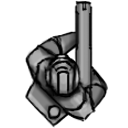
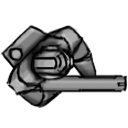
Implemented player graphic Fixed wonky player rotation Fixed invalid weapon index again...

diff --git a/BlackTournament/GameStates/MapState.cs b/BlackTournament/GameStates/MapState.cs
@@ -14,7 +14,7 @@ namespace BlackTournament.GameStates
         private string _MapName;
 
         private View _View;
-        private IEntity _Player;
+        private Graphic _Player;
         private Map _Map;
 
 
@@ -30,13 +30,14 @@ namespace BlackTournament.GameStates
             _View = new View(new FloatRect(0, 0, _Core.DeviceSize.X, _Core.DeviceSize.Y));
 
             // TESTS:
-            _Player = new BlackCoat.Entities.Shapes.Rectangle(_Core)
+            TextureManager.RootFolder = "Assets";
+            _Player = new Graphic(_Core)
             {
-                Size = new SFML.System.Vector2f(20, 40),
-                Origin = new SFML.System.Vector2f(10, 20),
+                Texture = TextureManager.Load("CharacterBase"),
                 Color = Color.Red,
                 View = _View
             };
+            _Player.Origin = _Player.Texture.Size.ToVector2f() / 2;
             Layer_Game.AddChild(_Player);
             
 
@@ -57,8 +58,6 @@ namespace BlackTournament.GameStates
 
         protected override void Update(float deltaT)
         {
-            //_View.Center = _Player.Position;
-            //_View.Rotation = -_Player.Rotation;// cool effect - see later if this can be used
         }
 
         protected override void Destroy()
@@ -72,16 +71,21 @@ namespace BlackTournament.GameStates
             Layer_Game.AddChild(entity);
         }
 
-        public void UpdatePosition(int id, float x, float y, float angle)
+        public void UpdatePosition(int id, float x, float y)
         {
             _Player.Position = new Vector2f(x, y);
-            _Player.Rotation = angle;
             _View.Center = _Player.Position;
+        }
+
+        public void Rotate(float angle)
+        {
+            _Player.Rotation = angle;
+            //_View.Rotation = -_Player.Rotation; // cool effect - see later if this can be used (with gamepads maybe)
         }
 
         public override string ToString()
         {
-            return String.Concat("Map: \"", Name, "\"");
+            return $"Map: \"{Name}\"";
         }
     }
 }

diff --git a/BlackTournament/Controller/MapController.cs b/BlackTournament/Controller/MapController.cs
@@ -1,14 +1,8 @@
 using System;
-using System.Collections.Generic;
-using System.Linq;
-using System.Text;
-using System.Threading.Tasks;
 using BlackCoat;
-using BlackCoat.InputMapping;
 using BlackTournament.GameStates;
 using BlackTournament.Net;
 using SFML.System;
-using SFML.Window;
 
 namespace BlackTournament.Controller
 {
@@ -53,22 +47,25 @@ namespace BlackTournament.Controller
 
         private void Input_MouseMoved(Vector2f mousePosition)
         {
-            var player = _Client._Players[_Client.Id]; // TODO : handle player without dictionary
+            var player = _Client.Player;
             player.R = new Vector2f(_Game.Core.DeviceSize.X / 2, _Game.Core.DeviceSize.Y / 2).AngleTowards(mousePosition);
-            _State.UpdatePosition(0, player.X, player.Y, player.R);
+            //HACK?
+            _State.Rotate(player.R);
         }
 
         private void UpdateReceived()
         {
             // HACK HACK HACK
-            var player = _Client._Players[_Client.Id]; // TODO : handle player without dictionary
-            _State.UpdatePosition(0, player.X, player.Y, player.R);
+            var player = _Client.Player;
+            player.R = new Vector2f(_Game.Core.DeviceSize.X / 2, _Game.Core.DeviceSize.Y / 2).AngleTowards(Input.MousePosition);
+            _State.UpdatePosition(0, player.X, player.Y);
+            // rotate only other players
         }
 
         protected override void StateReady()
         {
             AttachEvents();
-            
+
             // TODO : feed state (aka view) with data here and only now
             // register additional to state events
         }

diff --git a/BlackTournament/Net/BlackTournamentClient.cs b/BlackTournament/Net/BlackTournamentClient.cs
@@ -17,6 +17,8 @@ namespace BlackTournament.Net
 
 
         public String MapName { get; private set; }
+        public ClientPlayer Player { get; private set; }
+
         public Boolean IsConnected { get { return _BasePeer.ConnectionsCount != 0; } }
         public override Int32 AdminId { get { return Net.ADMIN_ID; } }
 
@@ -46,7 +48,7 @@ namespace BlackTournament.Net
 
                 // Update Rotation on Server (~60Hz)
                 _UpdateImpulse += deltaT;
-                if (_UpdateImpulse >= Net.UPDATE_IMPULSE)
+                if (_UpdateImpulse >= Net.UPDATE_IMPULSE && Player != null)
                 {
                     _UpdateImpulse = 0;
                     UpdatePlayerRotation(NetDeliveryMethod.UnreliableSequenced);
@@ -69,7 +71,7 @@ namespace BlackTournament.Net
 
         private void UpdatePlayerRotation(NetDeliveryMethod method)
         {
-            Send(NetMessage.Rotate, m => { m.Write(Id); m.Write(_Players[Id].R); }, method);
+            Send(NetMessage.Rotate, m => { m.Write(Id); m.Write(Player.R); }, method);
         }
 
         public void SendMessage(String txt)
@@ -157,8 +159,9 @@ namespace BlackTournament.Net
 
         protected override void Connected(int id, string alias)
         {
+            Player = new ClientPlayer(id) { Alias = alias };
             _Players = new Dictionary<int, ClientPlayer>();
-            _Players.Add(id, new ClientPlayer(id) { Alias = alias });
+            _Players.Add(id, Player);
             ConnectionEstablished.Invoke();
         }
 

diff --git a/BlackTournament/Net/Data/ServerPlayer.cs b/BlackTournament/Net/Data/ServerPlayer.cs
@@ -54,7 +54,7 @@ namespace BlackTournament.Net.Data
         public void SwitchWeapon(int direction)
         {
             var index = OwnedWeapons.IndexOf(CurrentWeapon) + direction;
-            if (index == 0) index = OwnedWeapons.Count - 1;
+            if (index == -1) index = OwnedWeapons.Count - 1;
             else if (index == OwnedWeapons.Count) index = 0;
             CurrentWeapon = OwnedWeapons[index];
         }

diff --git a/BlackTournament/Game.cs b/BlackTournament/Game.cs
@@ -90,6 +90,7 @@ namespace BlackTournament
         {
             _Server.Update(deltaT);
             _Client.Update(deltaT);
+            System.Threading.Thread.Sleep(1);
         }
 
         public void StartNewGame(String map = null, String host = null, int port = 0)
